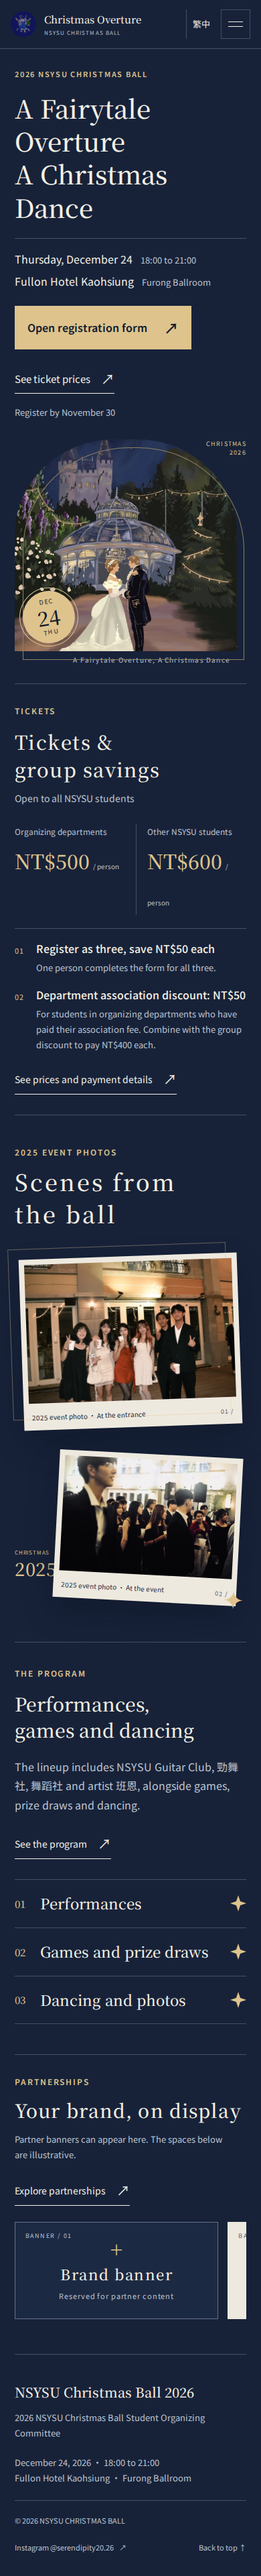
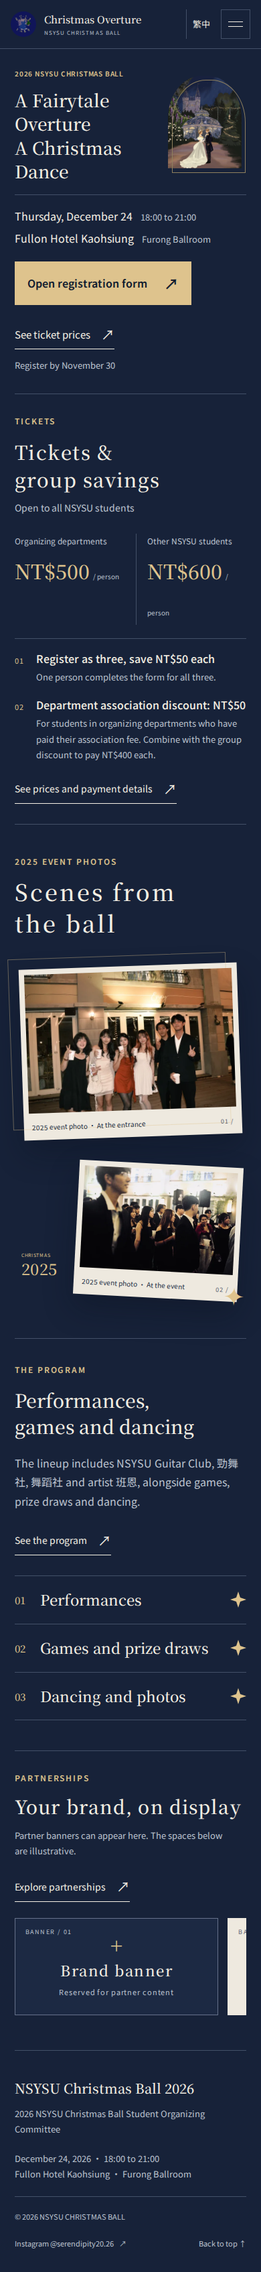
fix: compact mobile hero and prevent photo year overlap (#8)

diff --git a/public/style.css b/public/style.css
@@ -154,3 +154,27 @@ html:lang(en) .hero h1{font-size:clamp(40px,4.2vw,65px);letter-spacing:0;line-he
 /* Keep text fully opaque during entrance motion so its contrast remains stable. */
 @keyframes photo-arrive{from{translate:0 18px}to{translate:0 0}}
 .price-invitation .invitation-heading{color:#67512c}
+/* Mobile cover: keep the illustration beside the title and give details a full row. */
+@media(max-width:700px){
+ .hero{display:grid;grid-template-columns:minmax(0,1fr) clamp(104px,30vw,156px);grid-template-rows:auto auto;gap:18px 14px;align-items:center;padding-block:28px 30px}
+ .hero-copy{display:contents}
+ .hero-heading{grid-column:1;grid-row:1;min-width:0}
+ .hero-heading .eyebrow{font-size:10px;letter-spacing:.08em;line-height:1.8;margin-bottom:12px}
+ .hero-heading h1{font-size:clamp(34px,8.7vw,46px);line-height:1.45;letter-spacing:.03em;margin:0}
+ .hero-details{grid-column:1/-1;grid-row:2}
+ .hero-art{grid-column:2;grid-row:1;align-self:center;justify-self:end;width:100%;max-width:156px;padding:0 7px 9px 0;margin:0}
+ .hero-art>img{aspect-ratio:4/5;object-position:center;border-radius:46% 46% 0 0}
+ .hero-art::after{inset:6px 1px 2px 6px;border-radius:46% 46% 0 0}
+ .hero-art .art-year,.hero-art .date-seal,.hero-art .art-credit{display:none}
+ .hero-details .hero-essential{max-width:none;margin:0;padding-top:17px}
+ .hero-details .hero-actions{margin-top:20px}
+ .hero-details .hero-discount{margin-top:12px}
+ html:lang(en) .hero-heading h1{font-size:clamp(25px,6.7vw,36px);line-height:1.35;letter-spacing:0}
+ .archive-editorial .archive-large{grid-column:1;grid-row:1}
+ .archive-editorial .archive-small{grid-column:1;grid-row:2;width:75%;margin:12px 0 0 auto;justify-self:end}
+ .archive-editorial .gallery-stamp{position:relative;grid-column:1;grid-row:2;align-self:end;justify-self:start;top:auto;right:auto;bottom:auto;left:auto;max-width:20%;margin:0 0 28px;text-align:left;font-size:7px;letter-spacing:.1em;z-index:1}
+ .archive-editorial .gallery-stamp strong{font-size:clamp(20px,6vw,27px);white-space:nowrap}
+}
+@font-face{font-family:Evening Serif Extra;src:url('assets/noto-serif-extra.woff2') format('woff2');font-display:swap;font-weight:400 700;unicode-range:U+4F34,U+5F85,U+651C,U+76F8}
+@font-face{font-family:Evening Sans Extra;src:url('assets/noto-sans-extra.woff2') format('woff2');font-display:swap;font-weight:400 700;unicode-range:U+4F34,U+5F85,U+651C,U+76F8}
+:root{--serif:'Evening Serif','Evening Serif Extra','Noto Serif TC','Songti TC',serif;--sans:'Evening Sans','Evening Sans Extra','Noto Sans TC','PingFang TC',sans-serif}

diff --git a/scripts/restore-title-glyphs.py b/scripts/restore-title-glyphs.py
@@ -1,0 +1,25 @@
+"""Restore Noto title glyphs from an existing OFL font in Git history, without a network request.
+Requires fonttools and brotli. The original font license remains in public/assets/OFL-*.txt.
+"""
+from io import BytesIO
+from pathlib import Path
+import subprocess
+from fontTools import subset
+from fontTools.ttLib import TTFont
+
+root = Path(__file__).resolve().parent.parent
+for family in ('sans', 'serif'):
+    original = subprocess.check_output(
+        ['git', 'show', f'fe99100:public/assets/noto-{family}-tc.woff2'], cwd=root
+    )
+    font = TTFont(BytesIO(original))
+    text = '伴待攜相'
+    assert all(ord(char) in font.getBestCmap() for char in text)
+    options = subset.Options()
+    options.flavor = 'woff2'
+    tool = subset.Subsetter(options=options)
+    tool.populate(text=text)
+    tool.subset(font)
+    font.flavor = 'woff2'
+    font.save(root / f'public/assets/noto-{family}-extra.woff2')
+    print(f'{family}: restored {text} from the original OFL font')

diff --git a/docs/QA.md b/docs/QA.md
@@ -35,3 +35,9 @@
 票價頁使用既有花房插畫及邀請函線框，品牌合作頁加入交錯照片、Banner 預留區與花房成果回報圖紋。三聯插畫使用底部及左右邊緣淡化，中央標題保持清晰。動態不無限循環，減少動態偏好時停用。
 
 桌面及手機截圖位於 redesign/editorial-update。未新增虛構品牌、藝人照片、曲目或演出時間。演出名單與新入場時段依本次使用者更正，外部表單需由主辦維護。
+
+## 手機首頁與年份修正，v1.2.1.0
+
+以 320px 重現首頁插畫落在標題下方，以及 2025 年份與旋轉照片重疊。新增三項瀏覽器回歸檢查，修正前全部失敗，修正後通過。中英文手機首頁在 320、375、390、430、700px 都以縮小插畫與標題並排，日期與報名獨立占下一列。年份在同列中另留空間，與照片至少間隔 8px。
+
+57 項完整檢查通過。桌面手機截圖見 redesign/mobile-fix。品牌主標依使用者改為「期待聖誕舞會能與品牌攜手相伴」。字型服務暫時無法連線，四個缺字從 Git 歷史的既有 Noto OFL 字型回復為 5.6KB 的本機補字檔，沒有引入外部執行時字型請求。

diff --git a/docs/MAINTENANCE.md b/docs/MAINTENANCE.md
@@ -51,3 +51,6 @@ CI 會安裝 Chromium 系統依賴並執行測試。合併到 main 後，原有 
 
 
 行事曆功能已移除，中英文頁面不再提供下載入口，建置亦不產生 event.ics。
+
+
+手機首頁將 hero-heading 與縮小插畫排在第一列，hero-details 占第二列，桌面維持原版面。照片年份與第二張照片共用一列但各自保留空間。Noto 補字檔只含「伴待攜相」四字，來源為 Git 歷史 fe99100 的原始 OFL 字型。需要重製時，可使用含 fonttools、brotli 的 Python 執行 scripts/restore-title-glyphs.py，需保有該版本的 Git 歷史。

diff --git a/CHANGELOG.md b/CHANGELOG.md
@@ -1,5 +1,16 @@
 # Changelog
 
+## [1.2.1.0] - 2026-11-05
+
+### Fixed
+
+- 手機首頁將插畫縮小並排在標題右側，讓日期與報名入口更早出現。
+- 歷年照片區為年份保留獨立空間，避免被旋轉照片遮住。
+
+### Changed
+
+- 品牌合作主標改為「期待聖誕舞會能與品牌攜手相伴」。
+
 ## [1.2.0.1] - 2026-11-05
 
 ### Removed
